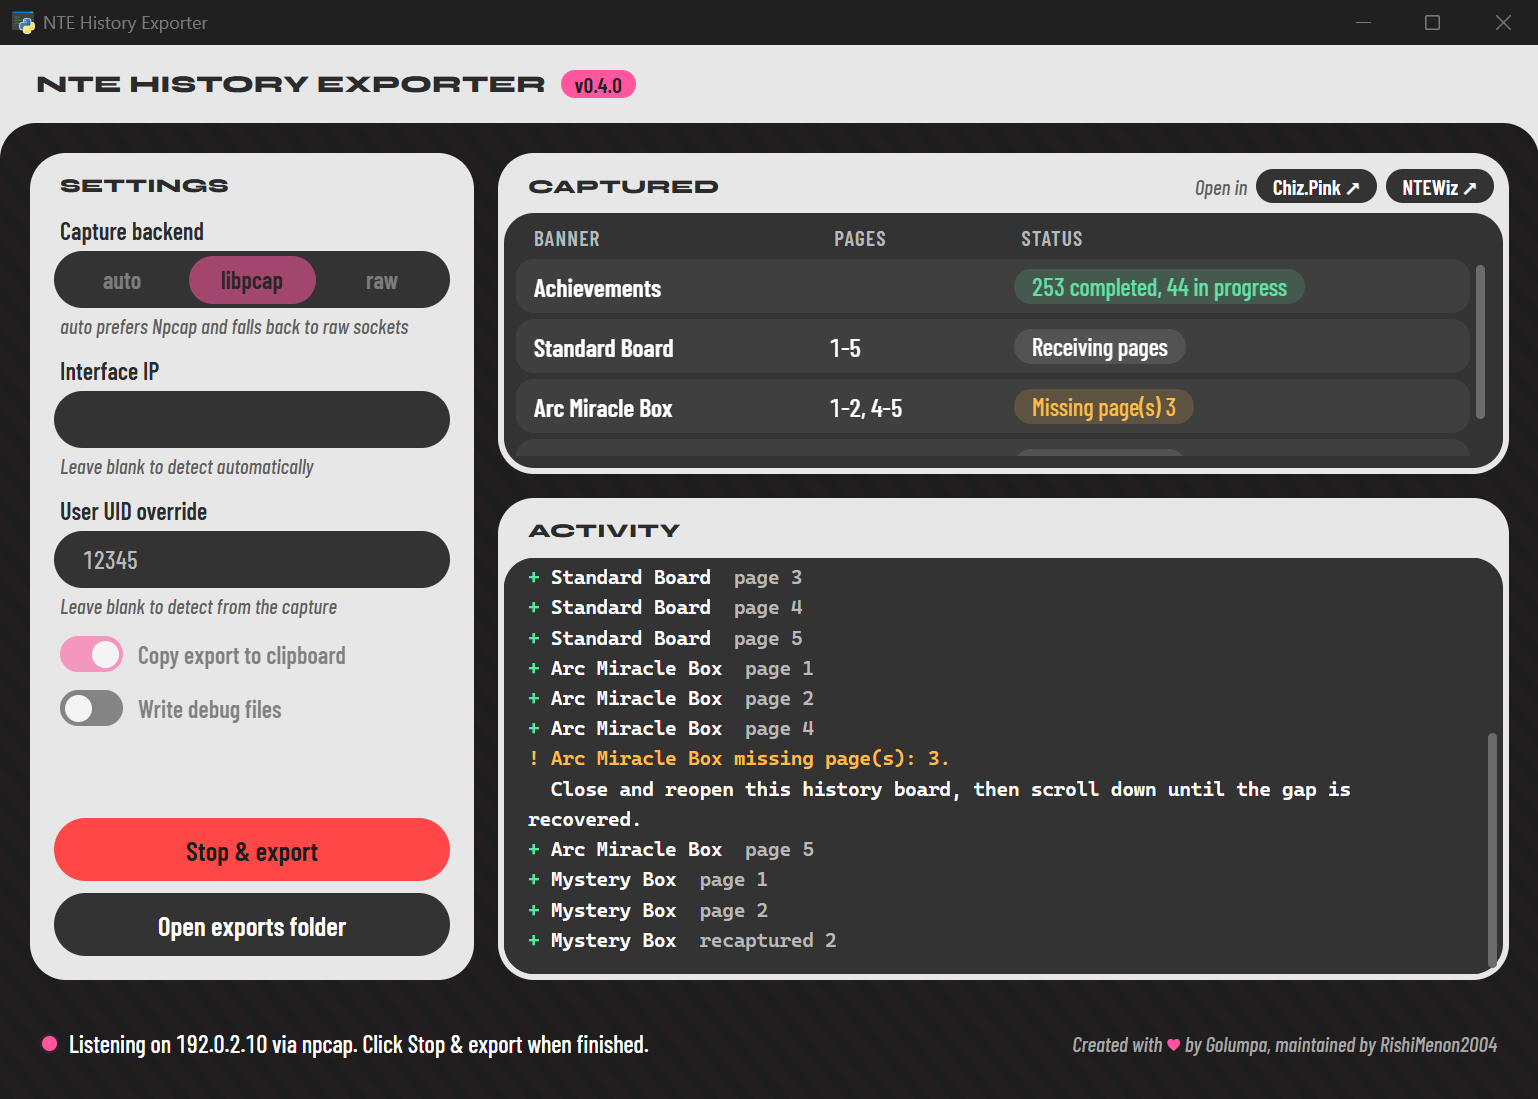
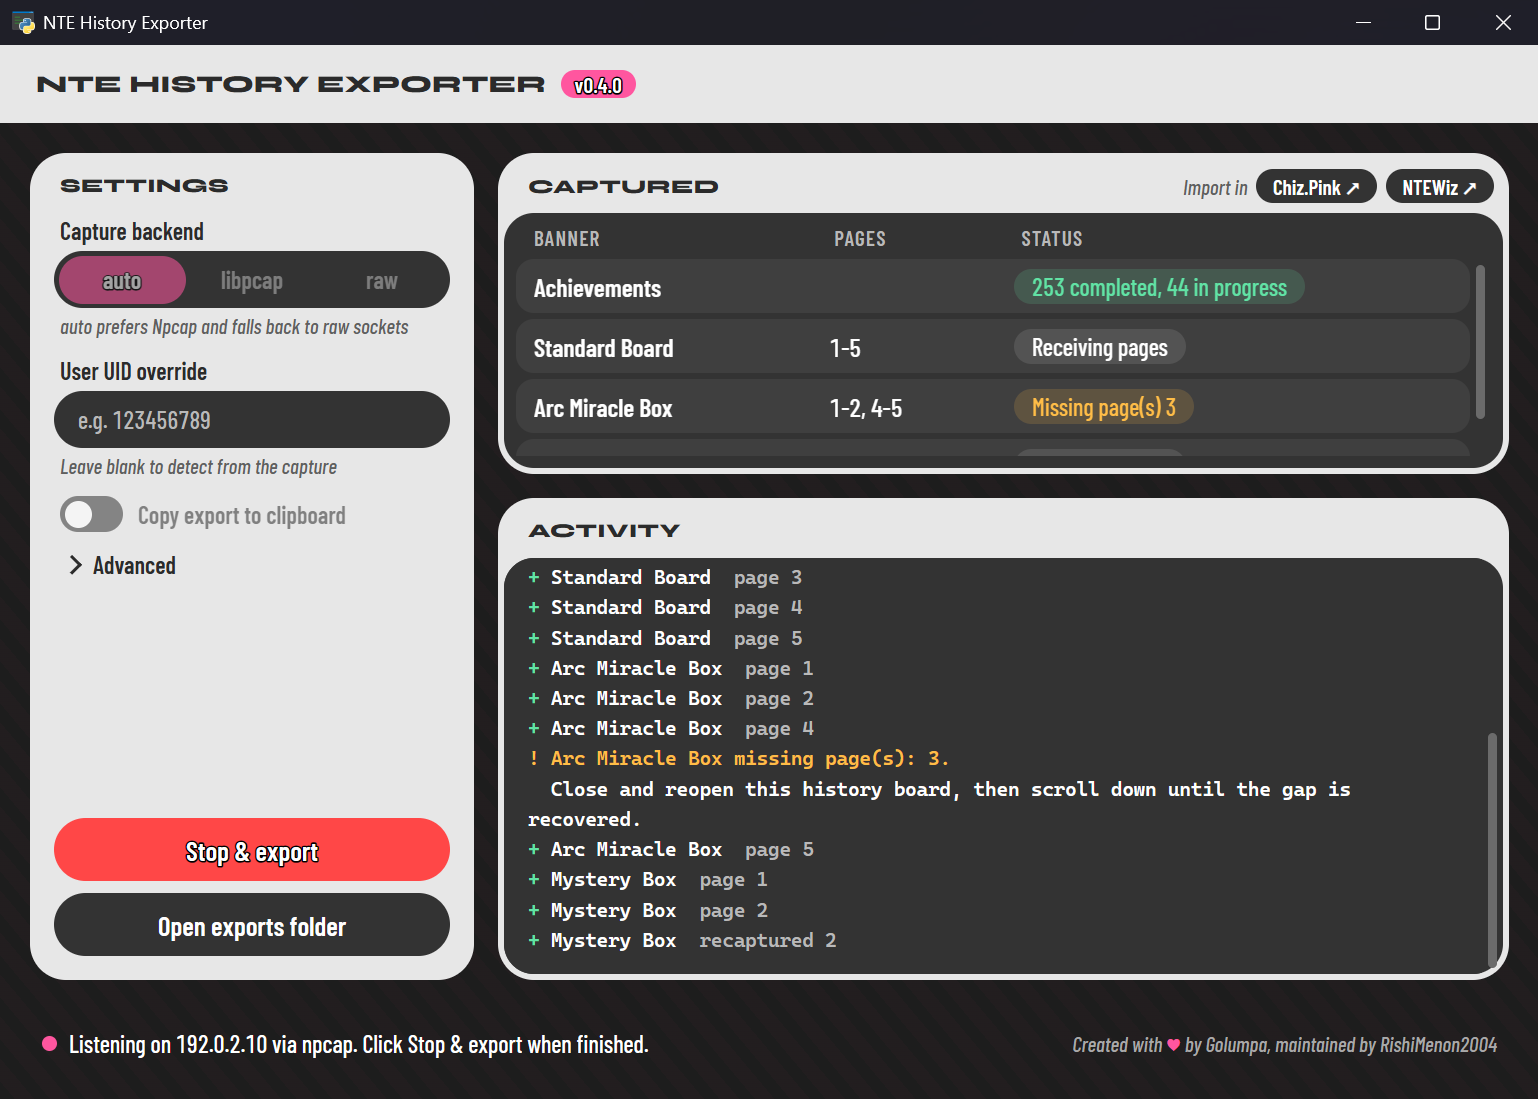
docs: Describe GUI tracker import and updates, refresh demo screenshot

diff --git a/README.md b/README.md
@@ -104,17 +104,37 @@ Or simply double-click **`run-exporter.cmd`**.
 
 #### Desktop GUI (preview)
 
-The GUI is a pywebview window around the same live capture. Pick the backend and
-options, click **Start capture**, and watch pages arrive for each banner. Then
-click **Stop & export**. Download it from Releases (see
-[Downloads](#downloads)), or run it from source: double-click
-**`run-exporter-gui.cmd`**, or run `python -m nte_history_exporter.gui` with
-`src` on `PYTHONPATH`. From source it needs `pip install -e ".[gui]"` first. See [docs/gui.md](docs/gui.md) for per-platform setup and
-customization.
+The GUI is a pywebview window around the same live capture. Pick the backend,
+click **Start capture**, and watch pages arrive for each banner. Then click
+**Stop & export**.
 
 <div align="center">
   <img src="docs/images/gui-demo.png" width="560" alt="Desktop GUI during a capture" />
 </div>
+
+Interface IP and debug files are under **Advanced**, since they're rarely needed.
+
+Download it from Releases (see [Downloads](#downloads)), or run it from source by
+double-clicking **`run-exporter-gui.cmd`**. From source it needs
+`pip install -e ".[gui]"` first. See [docs/gui.md](docs/gui.md) for per-platform
+setup and customization.
+
+##### Importing into a tracker
+
+After a capture, **Chiz.Pink** sends the exports straight to Chiz.Pink and opens
+its import page, so there are no files to drag. Mystery Box exports aren't sent,
+because Chiz.Pink doesn't track them.
+
+**NTEWiz** opens the site with the exports folder alongside it, ready to drag the
+files in. Chiz.Pink does the same if there's no capture yet or sending fails.
+
+##### Updates
+
+When a newer release is out, a pill appears in the title bar. In a downloaded
+build, clicking it downloads the update, checks it against GitHub's checksum,
+then replaces the GUI and restarts it.
+
+Run from source, the pill opens the release page instead.
 
 > [!IMPORTANT]
 > Start the exporter **before pressing Start on the game's main menu**. This is
@@ -264,6 +284,11 @@ review workflow.
 
 > [!CAUTION]
 > Sanitized exports are intended for tracker import and should not contain anything especially harmful, but they can identify the game account via user UID and pull history. Share exports only with verified sources, such as known trackers. Do not commit packet captures, generated exports, research briefs, or personal account data. The repository keeps `exports/` as an empty output folder but ignores everything generated inside it.
+
+When the GUI sends a capture to Chiz.Pink, the exports are encrypted on your
+computer first. The key is only in the link that opens in your browser, which
+never sends that part to a server. Chiz.Pink holds the encrypted copy until your
+browser collects it, or for up to 10 minutes, then deletes it.
 
 ## Boundary Policy
 
